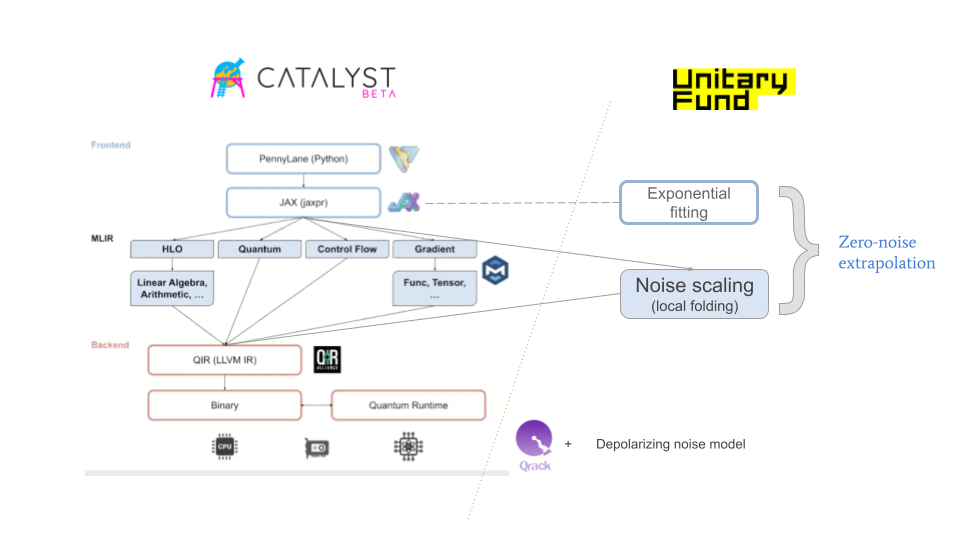
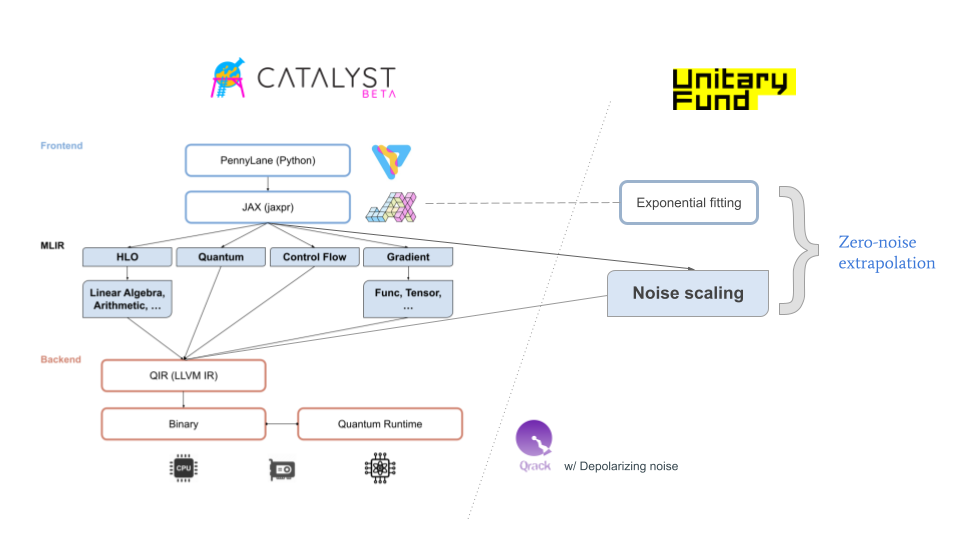
address reviewer comments and better resolution image

diff --git a/src/content/blog/2024_zne_catalyst.md b/src/content/blog/2024_zne_catalyst.md
@@ -1,24 +1,30 @@
 ---
-title: "Just in time for just-in-time error mitigation"
+title: "Just in time for just-in-time error mitigation: Mitiq meets Catalyst"
 author: Alessandro Cosentino
-day: 31
-month: 10
+day: 18
+month: 11
 year: 2024
 tags:
 - Mitiq
 - Partnership
 ---
 
-We all want faster computer programs. Just-in-time (JIT) compilation has been a key concept in classical compiler design to help achieve faster computer programs. The basic idea behind a JIT compiler is that it observes the program running and optimizes it based on those observations. Most modern programming languages and runtime environments support some kind of JIT optimization techniques. In fact, very recently, an [experimental JIT compiler](https://docs.python.org/3/whatsnew/3.13.html#whatsnew313-jit-compiler) was added to Python in its latest release, 3.13.
+This blog post is a summary of a partnership between Unitary Fund and 
+[Xanadu](https://www.xanadu.ai/) to integrate error mitigation techniques 
+from Unitary Fund's Mitiq into Xanadu's PennyLane Catalyst compiler.
 
-Just as JIT compilation accelerates classical programs, similar techniques can be applied to quantum computing to boost performance. We all want faster quantum computer programs.  [Catalyst](https://github.com/PennyLaneAI/catalyst)[^1] is a JIT compiler framework developed by Xanadu to speed up quantum programs written with their PennyLane library. If you have a PennyLane program, you can decorate it with some simple Catalyst syntax and, in many cases, you have a faster quantum computer program.
+## Just-in-time compilation
 
-What we also want is more accurate quantum computer programs – accurate enough to be useful for the application or the experiment we seek to run. Quantum error correction is making significant strides, but it still introduces substantial overhead that can be impractical for near-term applications. We look at the more practical techniques of quantum error mitigation to make our quantum programs more accurate. Unitary Fund's own Mitiq project provides a Python package for applying error mitigation techniques to quantum programs. 
+We all want faster computer programs. Just-in-time (JIT) compilation has been a key concept in classical compiler design to help achieve faster computer programs. The basic idea behind a JIT compiler is that it observes the program running and optimizes it based on those observations. Most modern programming languages and runtime environments nowadays support some kind of JIT optimization techniques. In fact, very recently, an [experimental JIT compiler](https://docs.python.org/3/whatsnew/3.13.html#whatsnew313-jit-compiler) was added to Python in its latest 3.13 release.
 
-Even though [Mitiq](https://github.com/unitaryfund/mitiq) can be used with PennyLane programs, it doesn't seamless integrate into the Catalyst framework for JIT compilation. In the last few months, Unitary Fund and Xanadu have partnered to improve the integration of error mitigation techniques into the Catalyst compiler. The natural starting point was Zero-Noise Extrapolation (ZNE), which is
-the most popular error mitigation technique in Mitiq, and arguably the simplest to implement, yet it can be very effective.
+We all want faster quantum computer programs. Just as JIT compilation accelerates classical programs, similar techniques can be applied to quantum computing for boosting performance.   [Catalyst](https://github.com/PennyLaneAI/catalyst) is a JIT compiler framework developed by Xanadu to speed up quantum programs written with their PennyLane library. If you have a PennyLane program, you can easily decorate it with some simple Catalyst syntax and, in many cases, you have a faster quantum computer program.
 
-Romain Moyard and the Xanadu compilation team had already implemented a basic version of ZNE in Catalyst. The Unitary Fund team took it from there, and extended it with additional options.The gist of ZNE is that it estimates the ideal result of a quantum program by 
+What we also want is more accurate quantum computer programs – accurate enough to be useful for the application or the experiment we seek to run. Quantum error correction is making significant strides, but it still introduces substantial overhead that can be impractical for near-term applications. We look at the more practical techniques of quantum error mitigation to make our quantum programs more accurate. Unitary Fund's own [Mitiq](https://github.com/unitaryfund/mitiq) project provides a Python package for applying error mitigation techniques to quantum programs. 
+
+## Just-in-time compiling error mitigation
+Even though Mitiq can be used with PennyLane programs,  there was no seamless integration of error mitigation routines into the Catalyst compiler (or into any quantum JIT framework, as far as we know.) In the last few months, Unitary Fund and Xanadu have partnered to port Mitiq's error mitigation techniques onto Catalyst. The natural starting point was Zero-Noise Extrapolation (ZNE), which is the most popular error mitigation technique in Mitiq, and arguably the simplest to implement, yet it can be very effective.
+
+Romain Moyard and the Xanadu team had already implemented a basic version of ZNE in Catalyst. The Unitary Fund team took it from there, and extended it with additional options. The gist of ZNE is that it estimates the ideal result of a quantum program by 
 - **Stage 1**: Executing the program at increased noise levels
 - **Stage 2**: Extrapolating back to the zero-noise regime.
 
@@ -31,23 +37,22 @@ We worked on the full Catalyst stack and added the following options to the resp
 
 Why is this important? It turns out that, depending on the underlying noise models, 
 some folding techniques and some fitting techniques may perform better than others. 
-In complex noise environments, having the flexibility to choose the most effective folding and extrapolation methods can significantly improve error mitigation outcomes. The more complex the noise model is, the more impactful it is to have such a level of customization in ZNE. Should this blog post inspire you to become a better ZNE practitioner, check out [this review paper](https://arxiv.org/abs/2307.05203)[^2] for how to make the most out of all the ZNE options.
+In complex noise environments, having the flexibility to choose the most effective folding and extrapolation methods can significantly improve error mitigation outcomes. The more complex the noise model is, the more impactful it is to have such a level of customization in ZNE. Should this blog post inspire you to become a better ZNE practitioner, check out [this review paper](https://arxiv.org/abs/2307.05203) for how to make the most out of all the ZNE options.
 
-After implementing these options, it was time to test them. Catalyst programs can already be run on Amazon Braket and error mitigation can be leveraged to attenuate the hardware noise there. Running on real hardware can be time- and money-expensive though. 
-We needed a workflow to quickly smoke test the new features, and for that, we turned into adding a simple depolarizing noise model to Unitary Fund's in-house simulator Qrack. If you missed Dan Strano's [post](https://unitary.fund/posts/2024_qrack_catalyst/) on Qrack integration with Catalyst, go and check it out!
+## Noisy simulation on Catalyst
+After implementing these options, it was time to test them. Catalyst programs can already be run on Amazon Braket, and error mitigation can be leveraged to attenuate the hardware noise there. Running on real hardware can be time- and money-expensive though. 
+We needed a workflow to quickly smoke-test the new features, and for that, we turned into adding a simple depolarizing noise model to Unitary Fund's in-house simulator Qrack. If you missed Dan Strano's [post](https://unitary.fund/posts/2024_qrack_catalyst/) on Qrack integration with Catalyst, go and check it out! Qrack is now the first quantum simulator implementing a noise model, as well as integrating with a JIT compiler framework.
 
+
+## Across the Catalyst MLIR stack
 ![Catalyst ZNE diagram.](/images/catalyst-zne-diagram.png)
 
-Did I tell you how much we learned? For the Unitary Fund team, this project was our first venture into the JIT world and the architectural stack that comes with implementing it. 
-We had to ramp up on things like JAX and the MLIR framework (Multi-Level Intermediate Representation). Understanding MLIR gave us deeper insights into compiler design for quantum programs in general as well. I am not going to lie; it was all a bit daunting in the beginning, but it was incredibly rewarding!
+In order to implement all the new features, we touched across all layers of Catalyst's architectural stack, which is based on JAX and MLIR (Multi-Level Intermediate Representation) frameworks. Check out [Catalyst's architecture guide](https://docs.pennylane.ai/projects/catalyst/en/stable/dev/architecture.html) for motivations behind the stack, and how it is arguably a great fit for implementing a JIT compiler for _(hybrid)_ quantum programs, which also have support for things such as automatic differentiation.
 
-Of course, there are always more options and more error mitigation techniques that we want to bring to Catalyst. This is just the start.
+Did I tell you how much we learned? For the Unitary Fund team, this project was our first venture into the JIT world and the frameworks that come with implementing it. In fact, understanding MLIR gave us deeper insights into compiler design for quantum programs in general as well. I am not going to lie; it was all a bit daunting in the beginning, but it was incredibly rewarding!
 
-If you are also intrigued by just-in-time error mitigation and want to give it a try, 
-read the [documentation](https://docs.pennylane.ai/projects/catalyst/en/latest/code/api/catalyst.mitigate_with_zne.html), run the [tutorial](https://pennylane.ai/qml/demos/tutorial_zne_catalyst), check out the [Catalyst](https://github.com/PennyLaneAI/catalyst) repository. Remember it's all open-source, and you are just in time to contribute!
+Of course, there are always more options and more error mitigation techniques that we want to bring to Catalyst and to JIT compilation. We also want to expand Qrack with 
+more sophisticated noise models. This is just the start, and stay tuned on this blog for updates.
 
-
-------------------------------------------------------
-[^1]: Ittah et al., (2024). Catalyst: a Python JIT compiler for auto-differentiable hybrid quantum programs. Journal of Open Source Software, 9(99), 6720, https://doi.org/10.21105/joss.06720
-
-[^2]: Ritajit Majumdar, Pedro Rivero, Friederike Metz, Areeq Hasan, Derek S Wang. _Best practices for quantum error mitigation with digital zero-noise extrapolation_, [arXiv:2307.05203](https://arxiv.org/abs/2307.05203)
+If at this point, you are intrigued by just-in-time error mitigation and want to give it a try, 
+read the [documentation](https://docs.pennylane.ai/projects/catalyst/en/latest/code/api/catalyst.mitigate_with_zne.html), run the [tutorial](https://pennylane.ai/qml/demos/tutorial_zne_catalyst), check out the [Catalyst](https://github.com/PennyLaneAI/catalyst) repository. Remember it's all open-source, and you are _just in time_ to contribute!
